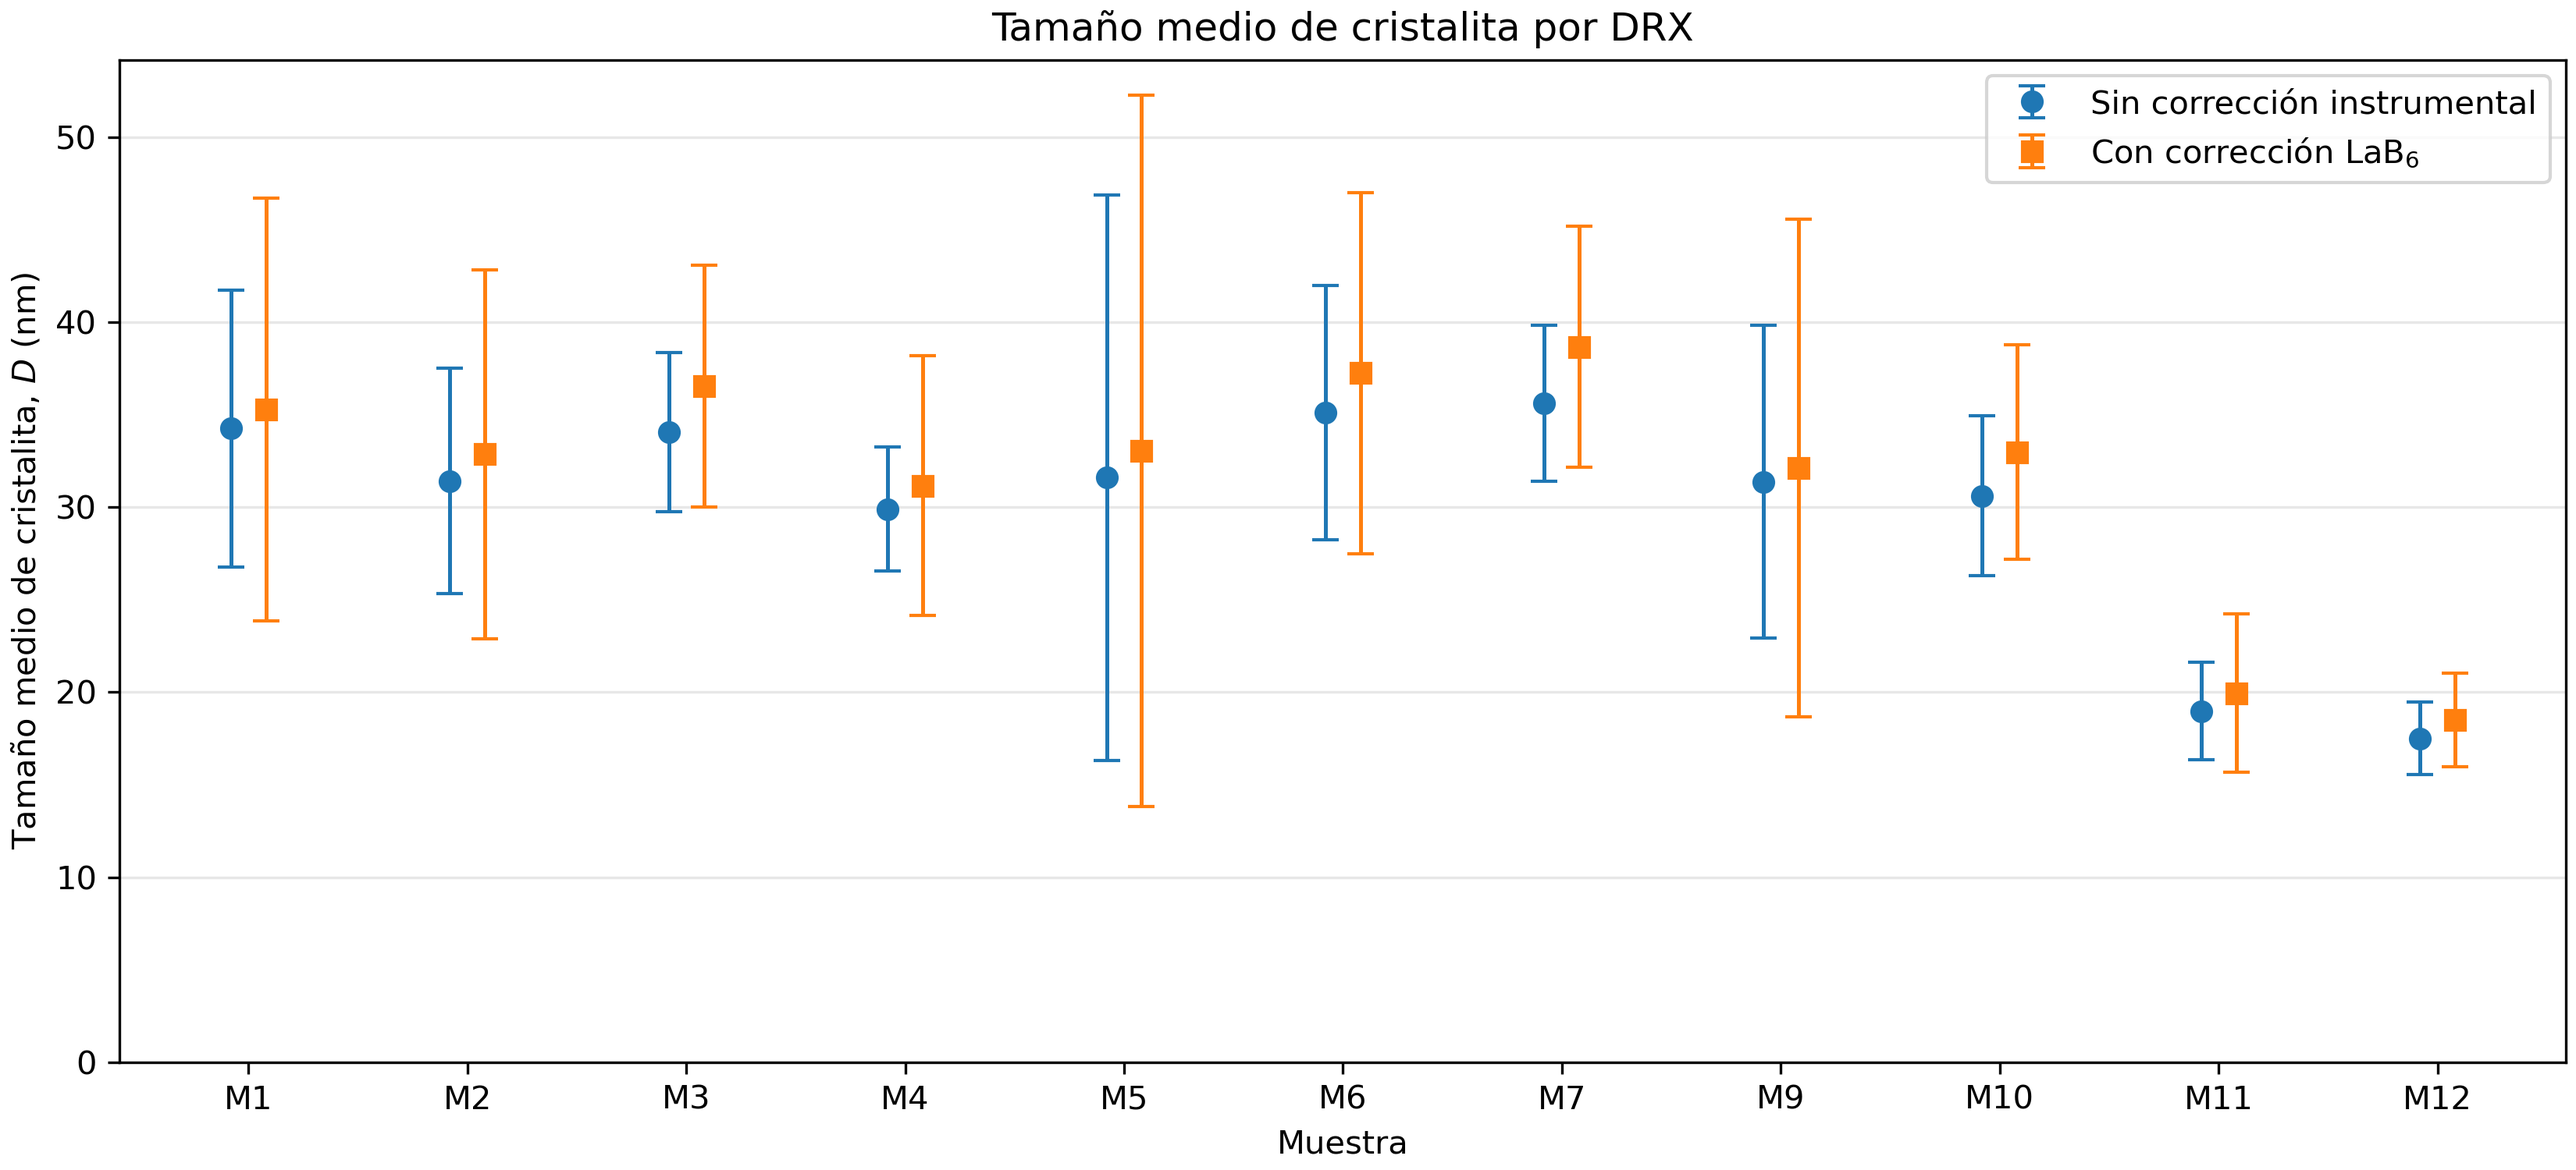
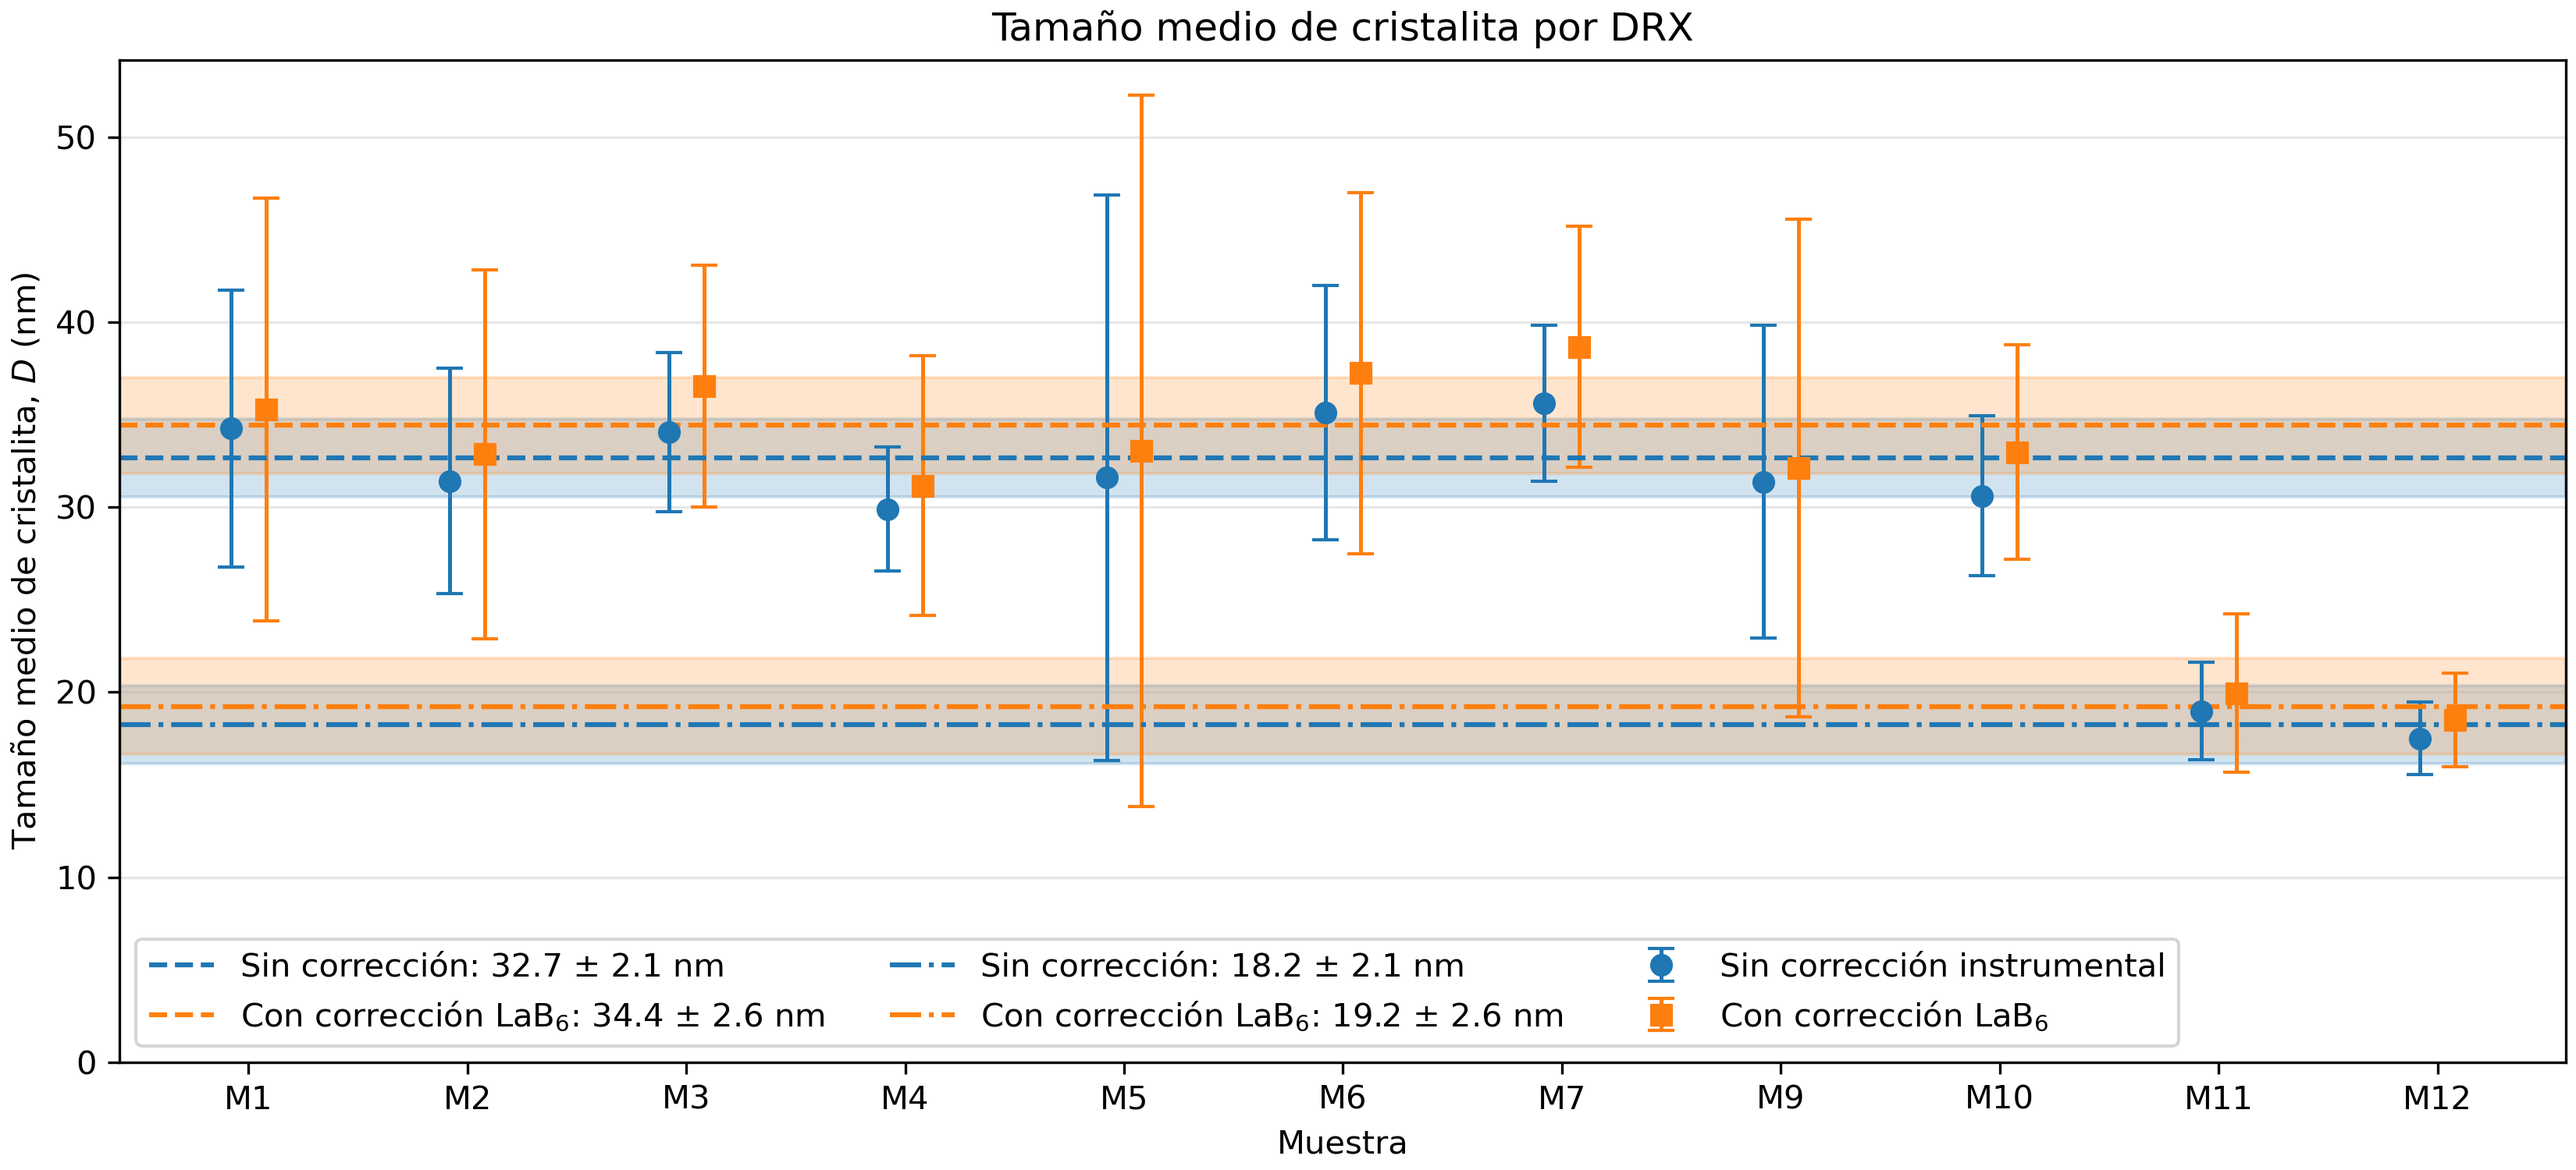
update

diff --git a/DRX.py b/DRX.py
@@ -1087,13 +1087,90 @@ std_sin = np.array([r['Desviación estándar (nm)'] for r in resumenes_sin])
 D_con = np.array([r['D medio (nm)'] for r in resumenes_con])
 std_con = np.array([r['Desviación estándar (nm)'] for r in resumenes_con])
 
-x = np.arange(len(muestras))
+
+#%% Promedio conjunto del tamaño de cristalita por grupos de muestras
+resumenes_sin = {
+    'M1': resumen_M1_sin, 'M2': resumen_M2_sin, 'M3': resumen_M3_sin,
+    'M4': resumen_M4_sin, 'M5': resumen_M5_sin, 'M6': resumen_M6_sin,
+    'M7': resumen_M7_sin, 'M9': resumen_M9_sin, 'M10': resumen_M10_sin,
+    'M11': resumen_M11_sin, 'M12': resumen_M12_sin
+}
+resumenes_con = {
+    'M1': resumen_M1_con, 'M2': resumen_M2_con, 'M3': resumen_M3_con,
+    'M4': resumen_M4_con, 'M5': resumen_M5_con, 'M6': resumen_M6_con,
+    'M7': resumen_M7_con, 'M9': resumen_M9_con, 'M10': resumen_M10_con,
+    'M11': resumen_M11_con, 'M12': resumen_M12_con
+}
+
+grupos = {
+    'M1-M10': ['M1','M2','M3','M4','M5','M6','M7','M9','M10'],
+    'M11-M12': ['M11','M12']
+}
+
+def promedio_grupo(nombres, resumenes):
+    D = np.array([resumenes[m]['D medio (nm)'] for m in nombres], dtype=float)
+    err = np.array([resumenes[m]['Incertidumbre (nm)'] for m in nombres], dtype=float)
+    validos = np.isfinite(D) & np.isfinite(err) & (err > 0) & (D > 0)
+    D, err = D[validos], err[validos]
+    if len(D) < 2:
+        raise ValueError('Se necesitan al menos dos muestras válidas')
+    pesos = 1/err**2
+    D_medio = np.sum(pesos*D)/np.sum(pesos)
+    err_estadistico = np.sqrt(1/np.sum(pesos))
+    chi2_red = np.sum(((D-D_medio)/err)**2)/(len(D)-1)
+    err_final = err_estadistico*np.sqrt(max(chi2_red, 1))
+    return {
+        'D medio (nm)': D_medio,
+        'Incertidumbre (nm)': err_final,
+        'Error ponderado sin inflar (nm)': err_estadistico,
+        'Desv. estándar entre muestras (nm)': np.std(D, ddof=1),
+        'chi2 reducido': chi2_red,
+        'N muestras': len(D)
+    }
+
+resultados_grupos = []
+for nombre_grupo, nombres in grupos.items():
+    for correccion, resumenes in [('Sin corrección', resumenes_sin),
+                                  ('Con corrección LaB6', resumenes_con)]:
+        r = promedio_grupo(nombres, resumenes)
+        resultados_grupos.append({
+            'Grupo': nombre_grupo,
+            'Corrección': correccion,
+            **r
+        })
+
+tabla_grupos = pd.DataFrame(resultados_grupos)
+display(tabla_grupos.round(2))
+# %%
+
 fig_DRX_resumen, ax = plt.subplots(figsize=(11,5), constrained_layout=True)
+x = np.arange(len(muestras))
+
+media_sin, desv_sin = np.mean(D_sin[:-2]), np.std(D_sin[:-2],ddof=1)
+media_con, desv_con = np.mean(D_con[:-2]), np.std(D_con[:-2],ddof=1)
+
+media2_sin, desv2_sin = np.mean(D_sin[-2:]), np.std(D_sin[-2:],ddof=1)
+media2_con, desv2_con = np.mean(D_con[-2:]), np.std(D_con[-2:],ddof=1)
 
 ax.errorbar(x-0.08,D_sin,yerr=std_sin,fmt='o',capsize=4,
             lw=1.2,ms=6,label='Sin corrección instrumental')
 ax.errorbar(x+0.08,D_con,yerr=std_con,fmt='s',capsize=4,
             lw=1.2,ms=6,label='Con corrección LaB$_6$')
+
+ax.axhspan(media_sin-desv_sin,media_sin+desv_sin,color='C0',alpha=0.2)
+ax.axhline(media_sin,color='C0',ls='--',lw=1.5, label=f'Sin corrección: {media_sin:.1f} ± {desv_sin:.1f} nm')
+
+ax.axhspan(media_con-desv_con,media_con+desv_con,color='C1',alpha=0.2)
+ax.axhline(media_con,color='C1',ls='--',lw=1.5,label=f'Con corrección LaB$_6$: {media_con:.1f} ± {desv_con:.1f} nm')
+
+ax.axhspan(media2_sin-desv_sin,media2_sin+desv_sin,color='C0',alpha=0.2)
+ax.axhline(media2_sin,color='C0',ls='-.',lw=1.5,
+           label=f'Sin corrección: {media2_sin:.1f} ± {desv_sin:.1f} nm')
+
+ax.axhspan(media2_con-desv_con,media2_con+desv_con,color='C1',alpha=0.2)
+ax.axhline(media2_con,color='C1',ls='-.',lw=1.5,
+           label=f'Con corrección LaB$_6$: {media2_con:.1f} ± {desv_con:.1f} nm')
+
 
 ax.set_xticks(x)
 ax.set_xticklabels(muestras)
@@ -1102,7 +1179,7 @@ ax.set_ylabel('Tamaño medio de cristalita, $D$ (nm)')
 ax.set_title('Tamaño medio de cristalita por DRX')
 ax.set_ylim(0,None)
 ax.grid(axis='y',alpha=0.3)
-ax.legend()
+ax.legend(ncol=3)
 plt.savefig('tamaño_vs_muestra.png',dpi=300)
 plt.show()
 # %%
